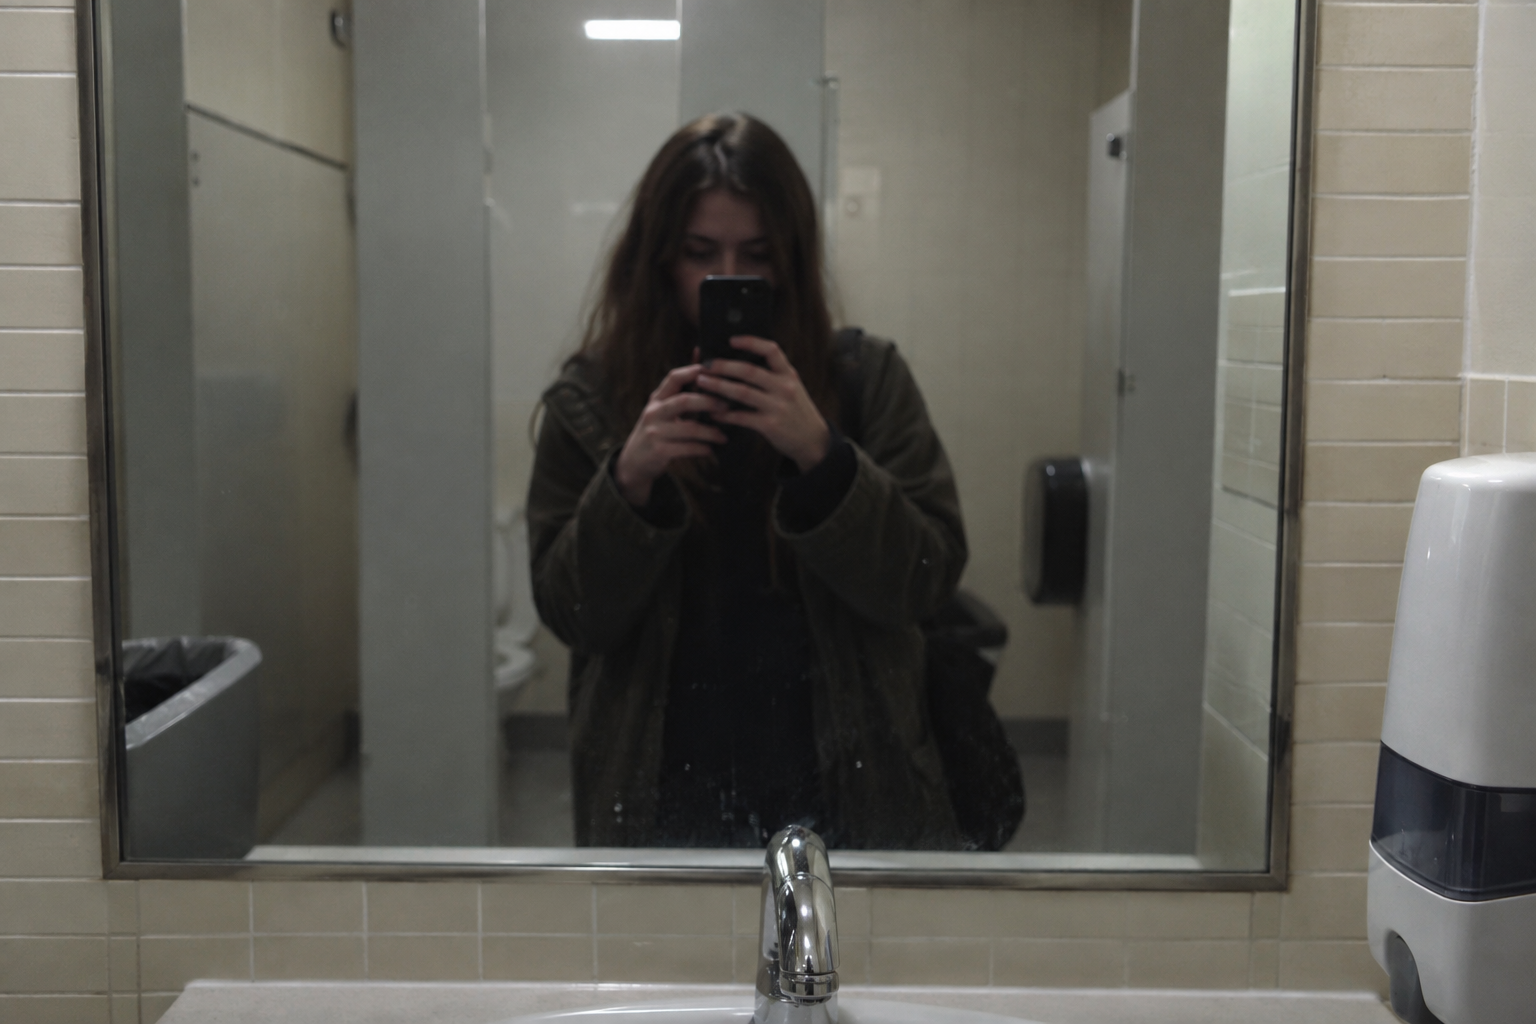
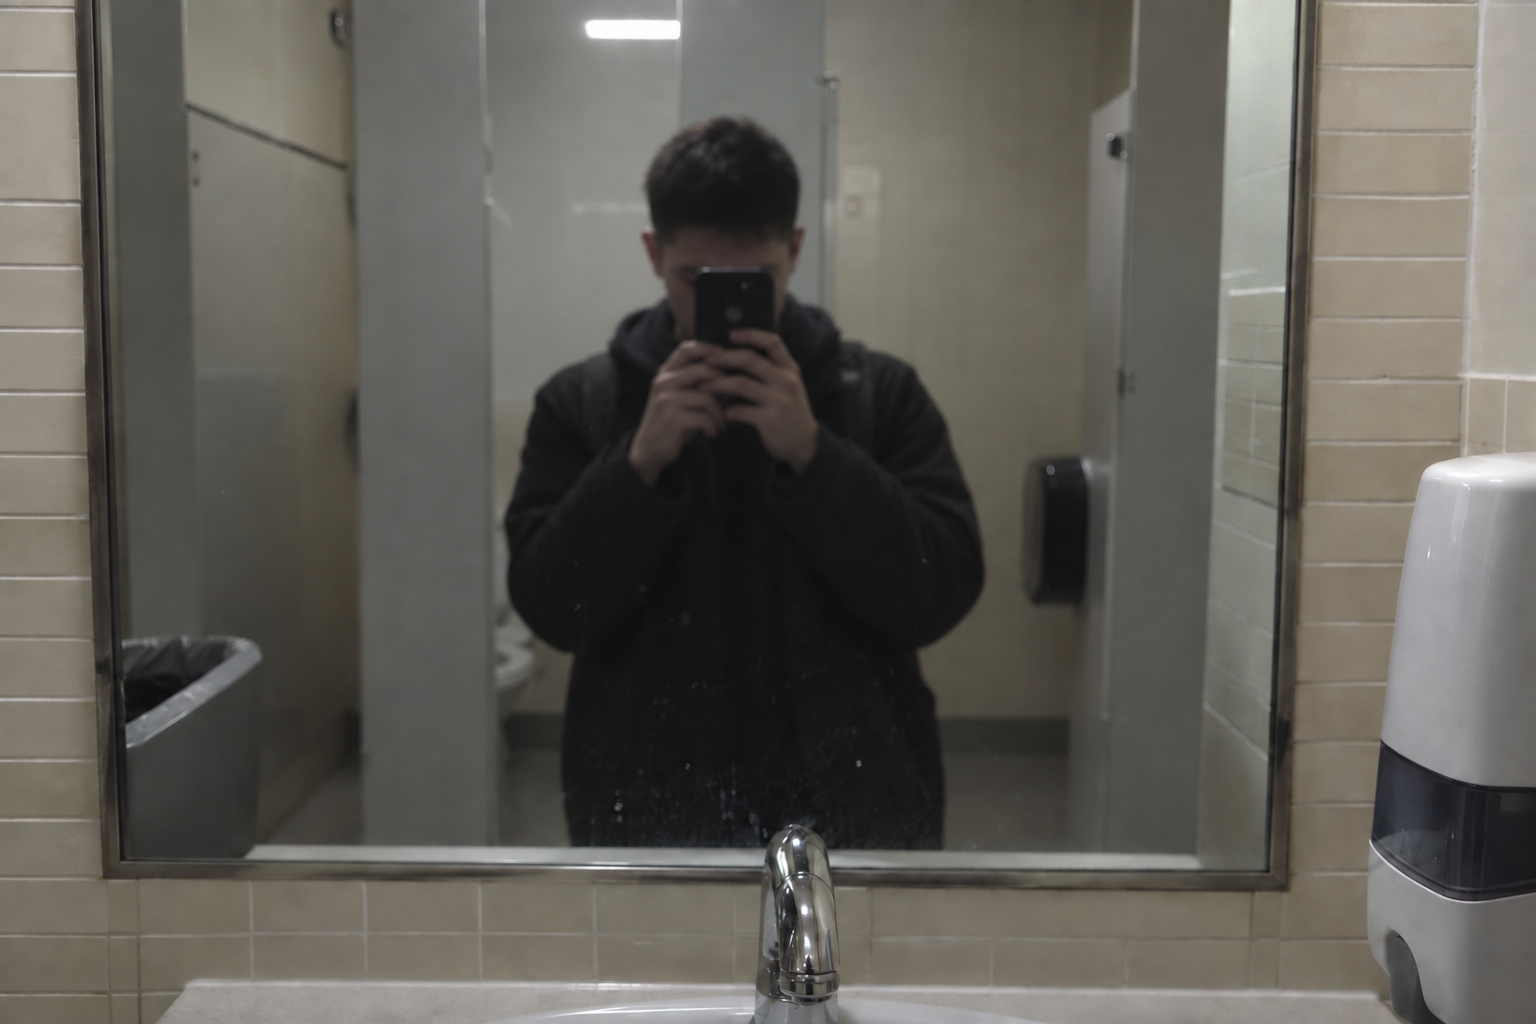
fix(UX-0003B): correct T07 mirror subject

diff --git a/docs/reviews/UX-0003B-image-manifest.md b/docs/reviews/UX-0003B-image-manifest.md
@@ -9,7 +9,7 @@
 | IMG_A4_T07_001 | `src/第四幕/T07/IMG_A4_T07_001.png` | 北方大学冬日校园、残雪、红砖与灰色教学楼、远处学生 | 可用。无清晰人脸或可读标识；构图为第一人称宽景。 |
 | IMG_A4_T07_002 | `src/第四幕/T07/IMG_A4_T07_002.png` | 在用教室桌面、数学卷、笔记本与笔 | 可用。卷面仅有不可辨读的数学痕迹，页边留白，未生成双 S。 |
 | IMG_A4_T07_003 | `src/第四幕/T07/IMG_A4_T07_003.png` | 大学走廊中手持褐色笔记本，封面空白 | 可用。空白封面可叠加“黄子山”；走廊冬日窗景与 IMG_A4_T07_001 同属大学环境。 |
-| IMG_A4_T07_004 | `src/第四幕/T07/IMG_A4_T07_004.png` | 大学洗手间镜前手机视角 | 可用。镜中人脸被手机和柔焦遮挡，不可识别，无惊悚变形。 |
+| IMG_A4_T07_004 | `src/第四幕/T07/IMG_A4_T07_004.png` | 大学洗手间镜前手机视角，短发成年男性的模糊镜像 | 可用。短发男性轮廓明确，面部被手机与柔焦遮挡，不可识别，无惊悚变形；符合王澳第一人称梦中镜像。 |
 | IMG_A4_T07_005 | `src/第四幕/T07/IMG_A4_T07_005.png` | 仍在使用的地下厨房，两侧工作台、吊钩与尽头黑色塑像 | 可用。参考 `IMG_A3_T06_002.png` 和 `IMG_A3_T06_006.jpg` 保持房间布局、绿白瓷砖、吊钩和中央木神龛连续；按 T07 时间拍成整洁明亮状态，无肉类来源暗示。远处人物只见背影。 |
 | IMG_A4_T07_006 | `src/第四幕/T07/IMG_A4_T07_006.png` | 高中走廊透过窗看向教室，一名女生背对镜头望向窗外 | 可用。人物为远景背影，无面部、文字或额外线索。 |
 
@@ -31,7 +31,7 @@
 
 ### IMG_A4_T07_004
 
-> 2014 年北方大学普通洗手间内的第一人称手机照片。镜中映出一个年轻人的自然人形，脸部柔焦并被胸前手机部分遮住，无法辨认身份；感觉短暂熟悉而不确定，但绝不恐怖、扭曲或超自然。普通浅色瓷砖、洗手池、皂液器和不锈钢龙头。横向画面以镜面为主、人物倒影居中但不可识别，低饱和、平实室内光、纪实手机质感。不要可读文字、标识、水印、幽灵、多重倒影或面部畸变。
+> 2014 年北方大学普通洗手间的第一人称手机照片，保持参考图中的洗手间、镜框、瓷砖、洗手池位置和相机机位，但不沿用参考图人物的性别、发型、服装或外形。镜中映出王澳的梦中镜像：成年男性，短发，头肩轮廓自然清楚；面部被胸前手机大部分遮住并柔焦，无法辨认身份。画面只呈现熟悉又不确定的普通镜中人，身份疑问留给故事文字。横向中广景、低饱和、平实顶灯、纪实手机质感。短发与成年男性轮廓须明确；不要长发或女性化形象、清晰人脸、恐怖变形、幽灵、多重倒影、可读文字、标识或水印。
 
 ### IMG_A4_T07_005
 
